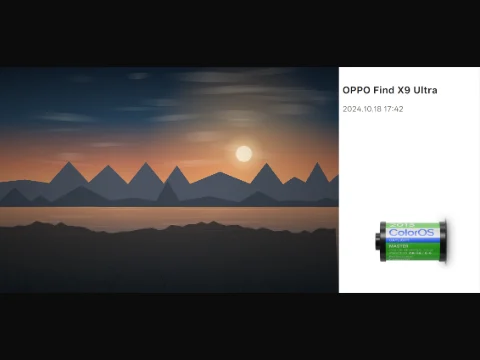
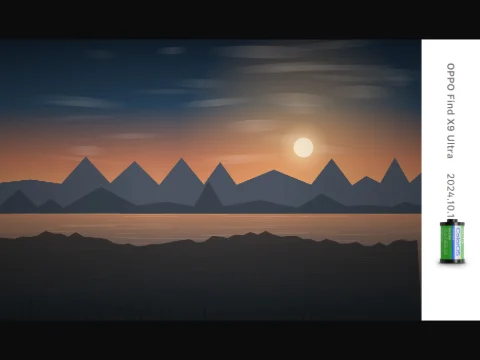
feat(system-camera): support vendor band rotation for the 3 OPPO side-strip styles

diff --git a/src/renderer/src/core/system/styles.ts b/src/renderer/src/core/system/styles.ts
@@ -294,105 +294,11 @@ const GR5: StockStyle = {
   }
 }
 
-function oppoSideStyle(id: string, name: string, assetKey: string, file: string, w: number, h: number, dims: { width: number; height: number }): StockStyle {
-  return {
-    id,
-    vendor: 'oppo',
-    family: 'OPPO 相册',
-    name,
-    nameEn: id.replace('oppo-gallery:', ''),
-    placement: 'with',
-    referenceWidth: 360,
-    margins: { left: 0, top: 0, right: 150, bottom: 0 },
-    background: '#FFFFFF',
-    bands: [
-      {
-        direction: 'right',
-        thickness: 150,
-        background: '#FFFFFF',
-        children: [
-          {
-            kind: 'group',
-            orientation: 'column',
-            width: 142,
-            matchHeight: true,
-            margins: { left: 4, right: 4, top: 18, bottom: 18 },
-            children: [
-              {
-                kind: 'text',
-                token: { kind: 'model' },
-                font: 'sys',
-                size: 10,
-                weight: 600,
-                color: '#222222',
-                tracking: 0.03,
-                lineHeight: 13,
-                width: 134,
-                align: 'left',
-                optional: false
-              },
-              {
-                kind: 'text',
-                token: { kind: 'template', value: '@time=@wm_time_yyyy_MM_dd_HH_mm' },
-                font: 'sys',
-                size: 8,
-                weight: 400,
-                color: '#77716A',
-                tracking: 0.02,
-                lineHeight: 11,
-                width: 134,
-                align: 'left',
-                margins: { top: 8 }
-              },
-              {
-                kind: 'text',
-                token: { kind: 'location' },
-                font: 'sys',
-                size: 8,
-                weight: 400,
-                color: '#77716A',
-                tracking: 0.02,
-                lineHeight: 11,
-                width: 134,
-                align: 'left',
-                optional: true,
-                margins: { top: 3 }
-              },
-              { kind: 'space', weight: 1 },
-              {
-                kind: 'image',
-                asset: assetKey,
-                width: w,
-                height: h,
-                scale: 'contain',
-                gravity: 'topHorCenter'
-              }
-            ]
-          }
-        ]
-      }
-    ],
-    assets: { [assetKey]: { file, width: dims.width, height: dims.height } },
-    audit: { status: 'approx', notes: 'Side panel reflowed to prevent clipping; source config uses a 50dp panel but a 97dp logo. Pending visual audit.' }
-  }
-}
-
-const OPPO_FILM_2: StockStyle = oppoSideStyle(
-  'oppo-gallery:personalize_film_2', '胶片 · 2', 'film_daylight_vertical_dark', 'film_daylight_vertical_dark.webp', 100, 68,
-  { width: 400, height: 272 }
-)
-const OPPO_MASTERSIGN_3: StockStyle = oppoSideStyle(
-  'oppo-gallery:personalize_masterSign_3', '大师签名 · 3', 'master_sign_3_dark', 'master_sign_3_dark.webp', 110, 30,
-  { width: 750, height: 204 }
-)
-// realme 胶片 · 2 ships as a 50dp *rotated* side strip (bitmaps[0].rotation = 90) whose content
-// runs along the photo's long edge with a 97dp logo. The IR has no glyph rotation, so the strip
-// is reflowed through the same side-panel helper as its siblings (胶片 · 2 / 大师签名 · 3)
-// instead of being crushed to ~1.7px micro-text by fitBandItems().
-const OPPO_FILM_REALME_2: StockStyle = oppoSideStyle(
-  'oppo-gallery:personalize_film_realme_2', 'realme 胶片 · 2', 'realme_film_daylight', 'realme_film_daylight.webp', 100, 70,
-  { width: 368, height: 256 }
-)
+// 胶片 · 2 / realme 胶片 · 2 / 大师签名 · 3 used to be reflowed through an
+// `oppoSideStyle` 150dp side-panel helper because the IR had no band rotation.
+// `StockBand.rotation` now carries the vendor's `bitmaps[0].rotation: 90`
+// faithfully (50dp strip, glyphs turned with it), so all three ship the
+// generated IR and the helper is gone. No other style used `oppoSideStyle`.
 
 const OPPO_RETRO_5: StockStyle = {
   id: 'oppo-gallery:personalize_retroCamera_5',
@@ -779,9 +685,6 @@ export const STOCK_STYLES: Record<string, StockStyle> = {
   [HASSEL.id]: HASSEL,
   [LUMO.id]: LUMO,
   [GR5.id]: GR5,
-  [OPPO_FILM_2.id]: OPPO_FILM_2,
-  [OPPO_FILM_REALME_2.id]: OPPO_FILM_REALME_2,
-  [OPPO_MASTERSIGN_3.id]: OPPO_MASTERSIGN_3,
   [OPPO_RETRO_5.id]: OPPO_RETRO_5,
   [XIAOMI_FILM_15.id]: XIAOMI_FILM_15,
   [XIAOMI_CLASSIC_22.id]: XIAOMI_CLASSIC_22,

diff --git a/src/renderer/src/core/system/paint.ts b/src/renderer/src/core/system/paint.ts
@@ -197,7 +197,12 @@ function paintItem(
   foreground: string[],
   themeId: string | undefined,
   onLightSurface = false,
-  brandDark = false
+  brandDark = false,
+  // Rotated bands paint inside a canvas transform, in the band's pre-rotation
+  // coordinate space: the on-canvas clamp below compares against the WRONG
+  // axis there (a ±90° band's text runs along the photo's long edge), so it is
+  // skipped — `fitBandItems()` already keeps the content inside the band.
+  inRotatedBand = false
 ): void {
   const ctx = env.ctx
   let box = scaleRect(item.box, k)
@@ -282,7 +287,7 @@ function paintItem(
   ctx.textAlign = item.align
   const pad = Math.max(3, Math.min(36, Math.round(env.W * 0.025)))
   let fit = 1
-  if (box.w > env.W - pad * 2 || box.h > env.H - pad * 2) {
+  if (!inRotatedBand && (box.w > env.W - pad * 2 || box.h > env.H - pad * 2)) {
     fit = Math.min(
       1,
       (env.W - pad * 2) / Math.max(1, box.w),
@@ -295,8 +300,10 @@ function paintItem(
   box = { ...box, w: box.w * fit, h: box.h * fit }
   if (item.align === 'center') box.x = centerX - box.w / 2
   else if (item.align === 'right') box.x = rightX - box.w
-  box.x = Math.max(pad, Math.min(box.x, env.W - pad - box.w))
-  box.y = Math.max(pad, Math.min(box.y, env.H - pad - box.h))
+  if (!inRotatedBand) {
+    box.x = Math.max(pad, Math.min(box.x, env.W - pad - box.w))
+    box.y = Math.max(pad, Math.min(box.y, env.H - pad - box.h))
+  }
   if (node.outline && node.outline.strokeWidth > 0) {
     const stroke = node.outline.strokeColorIndex != null
       ? foreground[node.outline.strokeColorIndex]
@@ -348,20 +355,34 @@ export function paintStockLayout(
 
   const drawBand = (band: StockLayout['bands'][number]): void => {
     const r = scaleRect(band.box, scale)
+    // Whole-band rotation (vendor `bitmaps[i].rotation`): turn the band's
+    // pre-rotation drawing (background + items, one coordinate space) about
+    // the band box centre. Text and child images rotate with it.
+    const rotated = !!band.rotation
+    ctx.save()
+    if (rotated) {
+      const cx = r.x + r.w / 2
+      const cy = r.y + r.h / 2
+      ctx.translate(cx, cy)
+      ctx.rotate(((band.rotation as number) * Math.PI) / 180)
+      ctx.translate(-cx, -cy)
+    }
     if (band.band.background) {
+      const bg = rotated ? scaleRect(band.layoutBox ?? band.box, scale) : r
       ctx.save()
       ctx.fillStyle = cssColor(band.band.background)
       if (band.band.radius) {
         ctx.beginPath()
-        roundRectPath(ctx, r.x, r.y, r.w, r.h, band.band.radius * scale)
+        roundRectPath(ctx, bg.x, bg.y, bg.w, bg.h, band.band.radius * scale)
         ctx.fill()
       } else {
-        ctx.fillRect(r.x, r.y, r.w, r.h)
+        ctx.fillRect(bg.x, bg.y, bg.w, bg.h)
       }
       ctx.restore()
     }
     const onLightSurface = false
-    for (const item of band.items) paintItem(env, item, scale, fg, theme?.id, onLightSurface, brandDark)
+    for (const item of band.items) paintItem(env, item, scale, fg, theme?.id, onLightSurface, brandDark, rotated)
+    ctx.restore()
   }
 
   for (const band of layout.bands) if (band.band.drawFirst) drawBand(band)

diff --git a/src/renderer/src/core/system/layout.ts b/src/renderer/src/core/system/layout.ts
@@ -77,7 +77,17 @@ export type PlacedItem = PlacedText | PlacedImage | PlacedShape | PlacedGroup
 
 export interface PlacedBand {
   band: StockBand
+  /** Final on-canvas band rect (what the background must cover). */
   box: StockRect
+  /**
+   * Rotated bands only: the pre-rotation rect the items were laid out in —
+   * `box` with w/h swapped about the same centre (±90°). Item boxes and
+   * `layoutBox` share one coordinate space; `paint.ts` turns them into canvas
+   * space with the band's rotation transform.
+   */
+  layoutBox?: StockRect
+  /** Rotated bands only: degrees copied from `band.rotation`. */
+  rotation?: number
   items: PlacedItem[]
 }
 
@@ -544,6 +554,20 @@ function bandBox(style: StockStyle, band: StockBand, photo: StockRect, W: number
   }
 }
 
+/**
+ * Rotated bands lay their content out in the pre-rotation rect (the final box
+ * with w/h swapped about the same centre for ±90°), exactly like the vendor's
+ * "horizontal strip, then rotate the band" semantics. Other angles keep the
+ * final rect and are only turned at paint time.
+ */
+function layoutBoxForBand(band: StockBand, box: StockRect): StockRect {
+  const rot = ((band.rotation ?? 0) % 360 + 360) % 360
+  if (rot !== 90 && rot !== 270) return box
+  const cx = box.x + box.w / 2
+  const cy = box.y + box.h / 2
+  return { x: cx - box.h / 2, y: cy - box.w / 2, w: box.h, h: box.w }
+}
+
 export function solveStockLayout(style: StockStyle, env: StockEnv): StockLayout {
   const baseW = style.referenceWidth
   const ratio = env.ph / env.pw
@@ -552,6 +576,11 @@ export function solveStockLayout(style: StockStyle, env: StockEnv): StockLayout 
   const W = m.left + baseW + m.right
   const H = m.top + basePhotoH + m.bottom
   const photo: StockRect = { x: m.left, y: m.top, w: baseW, h: basePhotoH }
-  const bands = style.bands.map((band) => placeBandRoot(band, bandBox(style, band, photo, W, H), env))
+  const bands = style.bands.map((band) => {
+    const box = bandBox(style, band, photo, W, H)
+    if (!band.rotation) return placeBandRoot(band, box, env)
+    const layoutBox = layoutBoxForBand(band, box)
+    return { ...placeBandRoot(band, layoutBox, env), box, layoutBox, rotation: band.rotation }
+  })
   return { W, H, photo, bands }
 }

diff --git a/src/renderer/src/core/system/ir.ts b/src/renderer/src/core/system/ir.ts
@@ -154,6 +154,15 @@ export type StockNode =
 
 export interface StockBand {
   direction: 'top' | 'bottom' | 'left' | 'right' | 'overlay'
+  /**
+   * Degrees. Whole-band rotation painted about the band box centre, matching
+   * the vendor's band-level `bitmaps[i].rotation` (OPPO ships only 90: a
+   * full-length 50dp strip laid out horizontally, then turned onto its side —
+   * text and child images rotate with it). Undefined/0 leaves a band untouched;
+   * for ±90 the children are laid out in the axis-swapped box sharing the same
+   * centre, so the vendor's aspect-preserving fit rules still apply.
+   */
+  rotation?: number
   thickness?: number
   width?: number
   radius?: number

diff --git a/TEMPLATES.md b/TEMPLATES.md
@@ -46,7 +46,7 @@
 
 - v36 精选：classic/film/leica/standard/tag 等可转换样式；34 套生成 + 4 套手写 standard（6/7/8/107）+ 2 套侧栏 classic 22/99。
 - 10 套 in-style overlay：classic 19/71/97、Disney 31/32/33、Leica 91、标签 9/10/11；背景透明、按宿主 anchor 贴照片。
-- classic 22/99 按小米 17 Ultra（NeoHyper）config 接入右侧栏；Leica 5/88/89 仍 blocked，需旋转文字或照片内叠加支持。
+- classic 22/99 按小米 17 Ultra（NeoHyper）config 接入右侧栏；Leica 5/88/89 仍 blocked（侧栏绝对布局缺可用总宽度 / 底部 218dp 容器与照片内叠加超出 IR 表达）；**非旋转文字**——三套小米 config 均无 `rotation` 字段，竖排仅为垂直堆叠（IR `column` 已支持），见 orient-audit.md。
 
 ### vivo 3 / 39 blocked
 
